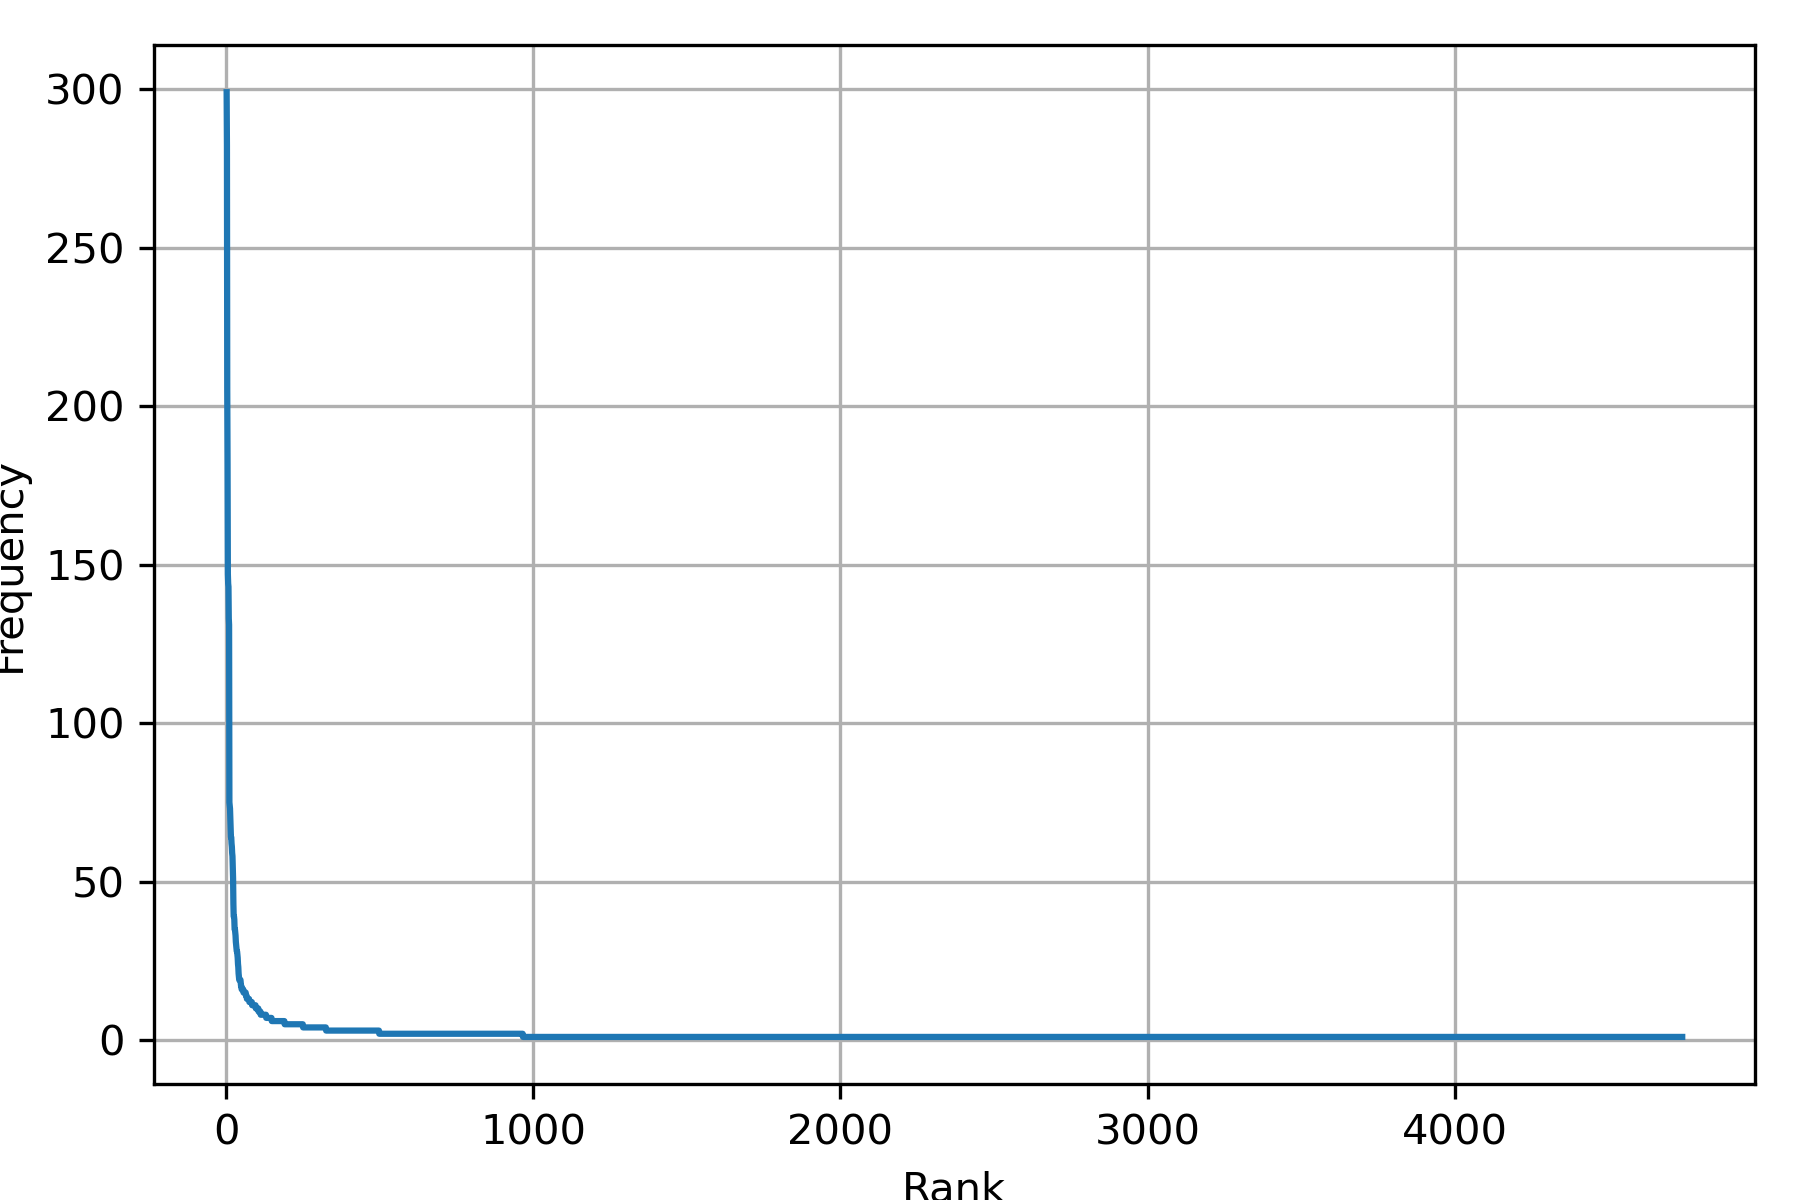
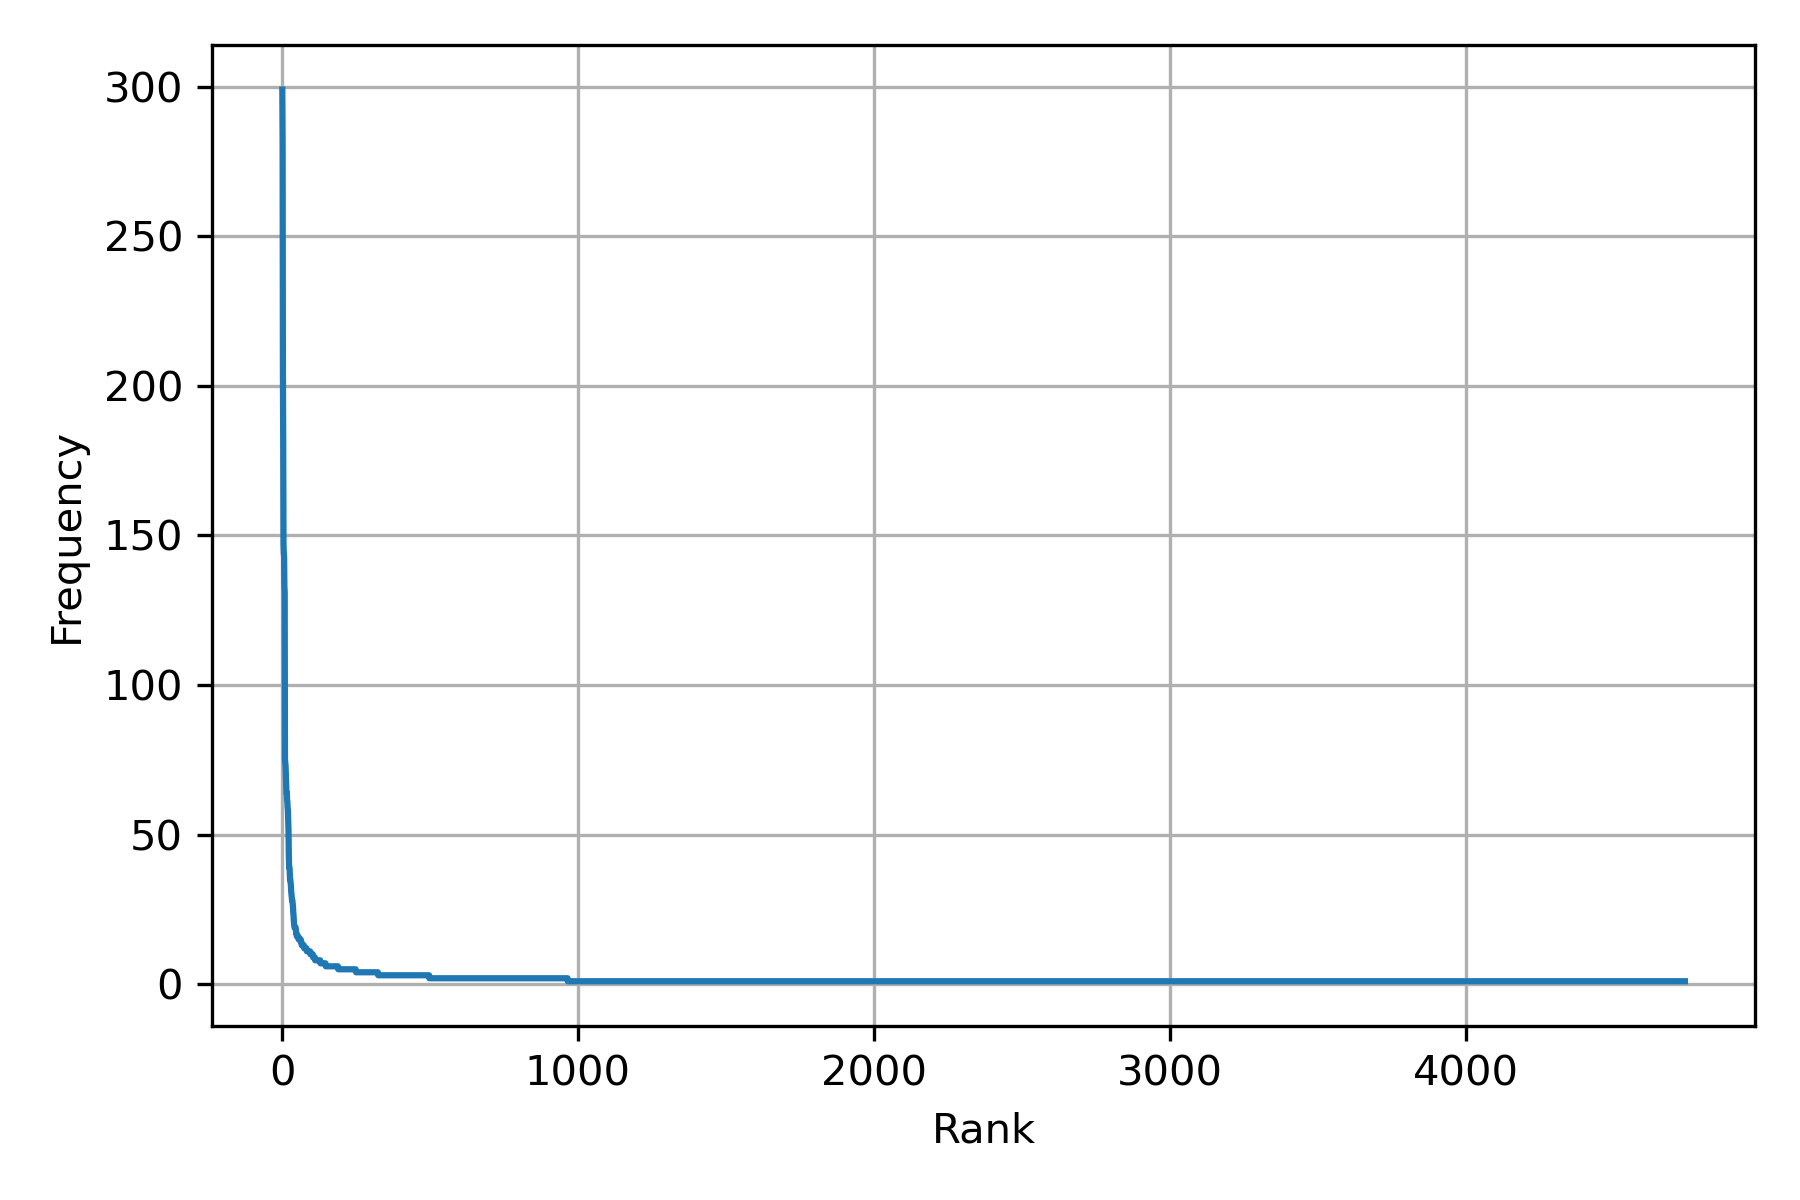
zipf

diff --git a/code/02TextProcessing.py b/code/02TextProcessing.py
@@ -28,3 +28,27 @@ for tw in tweet_iterator(TWEETS):
     words.update([x.strip() for x in text.split()])
 
 words['si']
+
+# Zipf's Law
+
+%pylab inline
+from matplotlib import pylab as plt
+
+freq = [f for _, f  in words.most_common()]
+plt.plot(range(1, len(freq) + 1), freq)
+plt.grid()
+plt.xlabel('Rank')
+plt.ylabel('Frequency')
+plt.tight_layout()
+plt.savefig('zipf_law.png', dpi=300)
+
+
+## Log-Log
+
+freq = [f for _, f  in words.most_common()]
+plt.loglog(range(1, len(freq) + 1), freq)
+plt.grid()
+plt.xlabel('Rank')
+plt.ylabel('Frequency')
+plt.tight_layout()
+plt.savefig('zipf_law2.png', dpi=300)

diff --git a/topics/02TextProcessing.md b/topics/02TextProcessing.md
@@ -75,9 +75,27 @@ The word frequency allows defining some empirical characteristics of the languag
 
 Let us start with Zipf's law. The law relates the frequency of a word with its rank. In an order set, the rank corresponds to the element's position, e.g., the first element has the rank of one, the second has the second rank, and so on.  Explicitly, the relationship is defined as $$f \cdot r = c $$, where $$f$$ is the frequency, $$r$$ is the rank, and $$c$$ is a constant. For example, the frequency is $$f=\frac{c}{r}$$; as can be seen when the rank equals the constant, then the frequency is one, meaning that the rest of the words are infrequent and that there are only frequent few words. 
 
+```python
+freq = [f for _, f  in words.most_common()]
+```
 
+```python
+from matplotlib import pylab as plt
+plt.plot(range(1, len(freq) + 1), freq)
+plt.grid()
+plt.xlabel('Rank')
+plt.ylabel('Frequency')
+plt.tight_layout()
+plt.savefig('zipf_law.png', dpi=300)
+```
 
-![Zipf's Law](/NLP-Course/assets/images/zipf_law.png) 
+![Zipf's Law](/NLP-Course/assets/images/zipf_law.png)
+
+```python
+plt.loglog(range(1, len(freq) + 1), freq)
+```
+
+![Log Zipf's Law](/NLP-Course/assets/images/zipf_law2.png) 
 
 
 # Herdan’s Law / Heaps' Law
